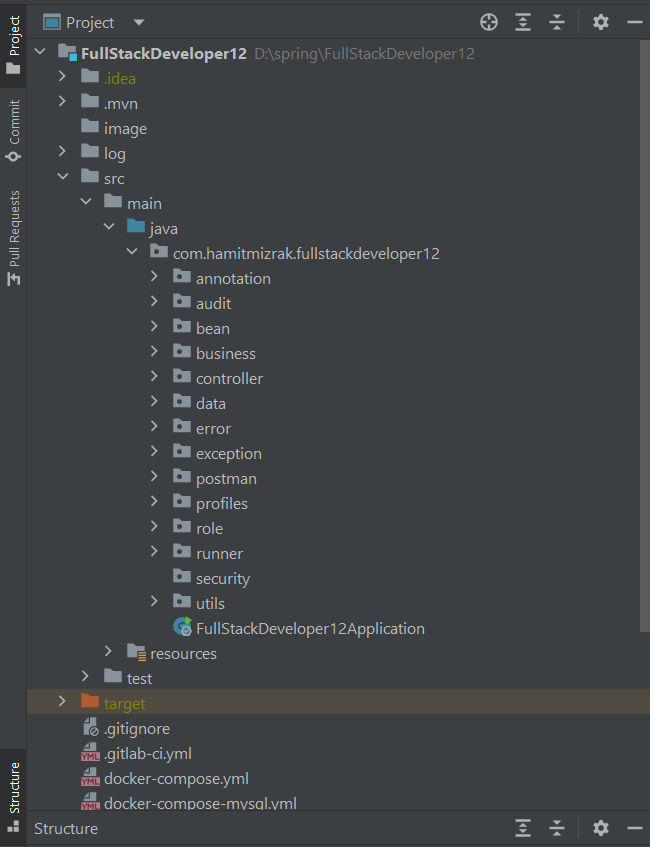
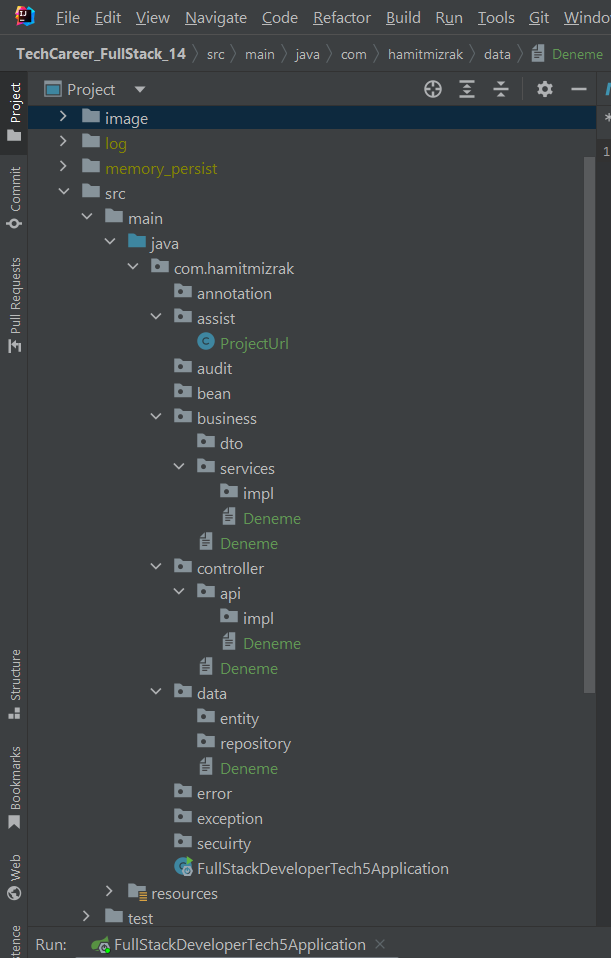
for project, package name

diff --git a/src/main/java/com/hamitmizrak/assist/ProjectUrl.java b/src/main/java/com/hamitmizrak/assist/ProjectUrl.java
@@ -1,0 +1,4 @@
+package com.hamitmizrak.assist;
+
+public class ProjectUrl {
+}

diff --git a/README.md b/README.md
@@ -8,6 +8,14 @@
 ![README PNG](./image/readme.png)
 
 ---
+
+```sh
+Git Clone 
+
+git clone https://github.com/hamitmizrak/TechCareer_FullStack_14
+```
+
+
 ## Blog Project:
 Spring Boot And React JS
 
